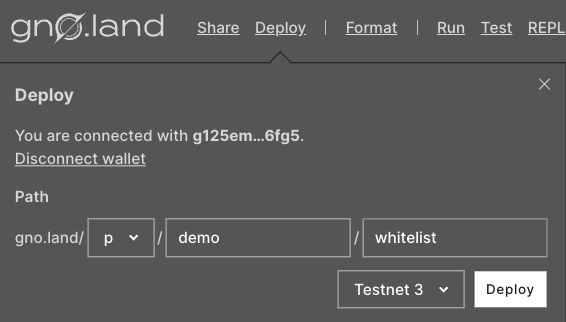
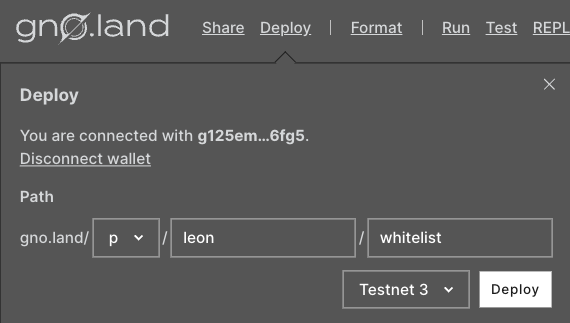
fixups

diff --git a/docs/how-to-guides/tutorial.md b/docs/how-to-guides/tutorial.md
@@ -813,8 +813,6 @@ the following output:
 
 ![TestSuccess](../../examples/gno.land/whitelist/src/testsuccess.png)
 
-
-
 After we've verified our code works (again), we are ready to deploy the code to
 the test3 testnet. Clicking on deploy will prompt a wallet connection, and then
 you will see the following:
@@ -822,16 +820,16 @@ you will see the following:
 ![TestSuccess](../../examples/gno.land/whitelist/src/deploy.png)
 
 Change the deployment path as you see fit - for this we will go with 
-`gno.land/p/demo/whitelist`. Choose `Testnet 3` for the network and click `Deploy`.
+`gno.land/p/leon/whitelist`. Choose `Testnet 3` for the network and click `Deploy`.
 
 Gno Playground has a built-in faucet, which means that even if you do not have any
 test3 GNOTs, the deployment should result in a success and you will be presented
-with a [Gnoscan link](https://gnoscan.io/transactions/details?txhash=Pw/jWWZZTGVaW5RXgQmCwA/fpOnIrjO0tSBuC+i3zAw%3D)
+with a [Gnoscan link](https://gnoscan.io/transactions/details?txhash=X3t1MKrUAtr1tNuPrfWHfJVw1I1BGgTretiARHzAtsE%3D)
 for the deployment transaction. 
 
-
-After deploying the package, we can continue with the realm code. In the Playground, 
-create `whitelistFactory.gno` and copy the code over. 
+After successfully deploying the package, we can continue with the realm code. 
+In the Playground, first remove the existing files. Then create a new file
+with the name `whitelistFactory.gno` and copy the code over. 
 
 
 
